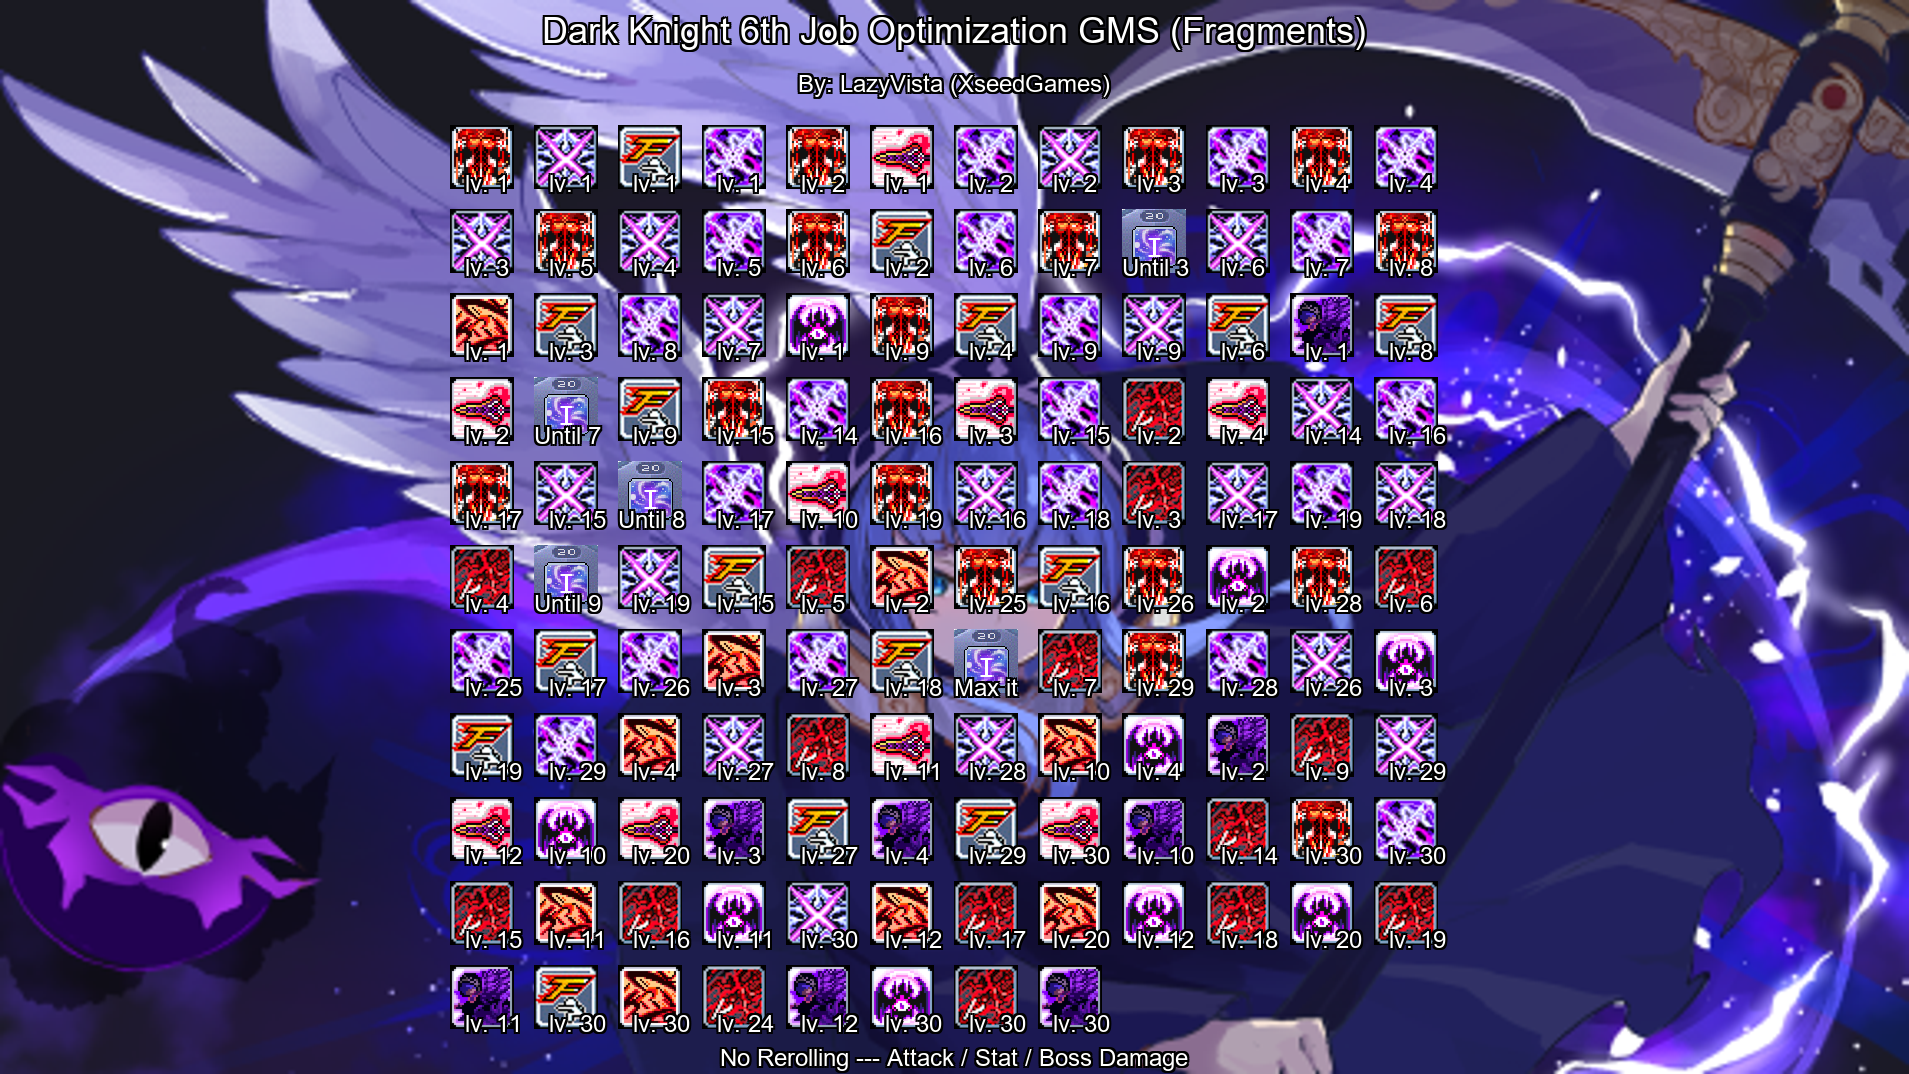
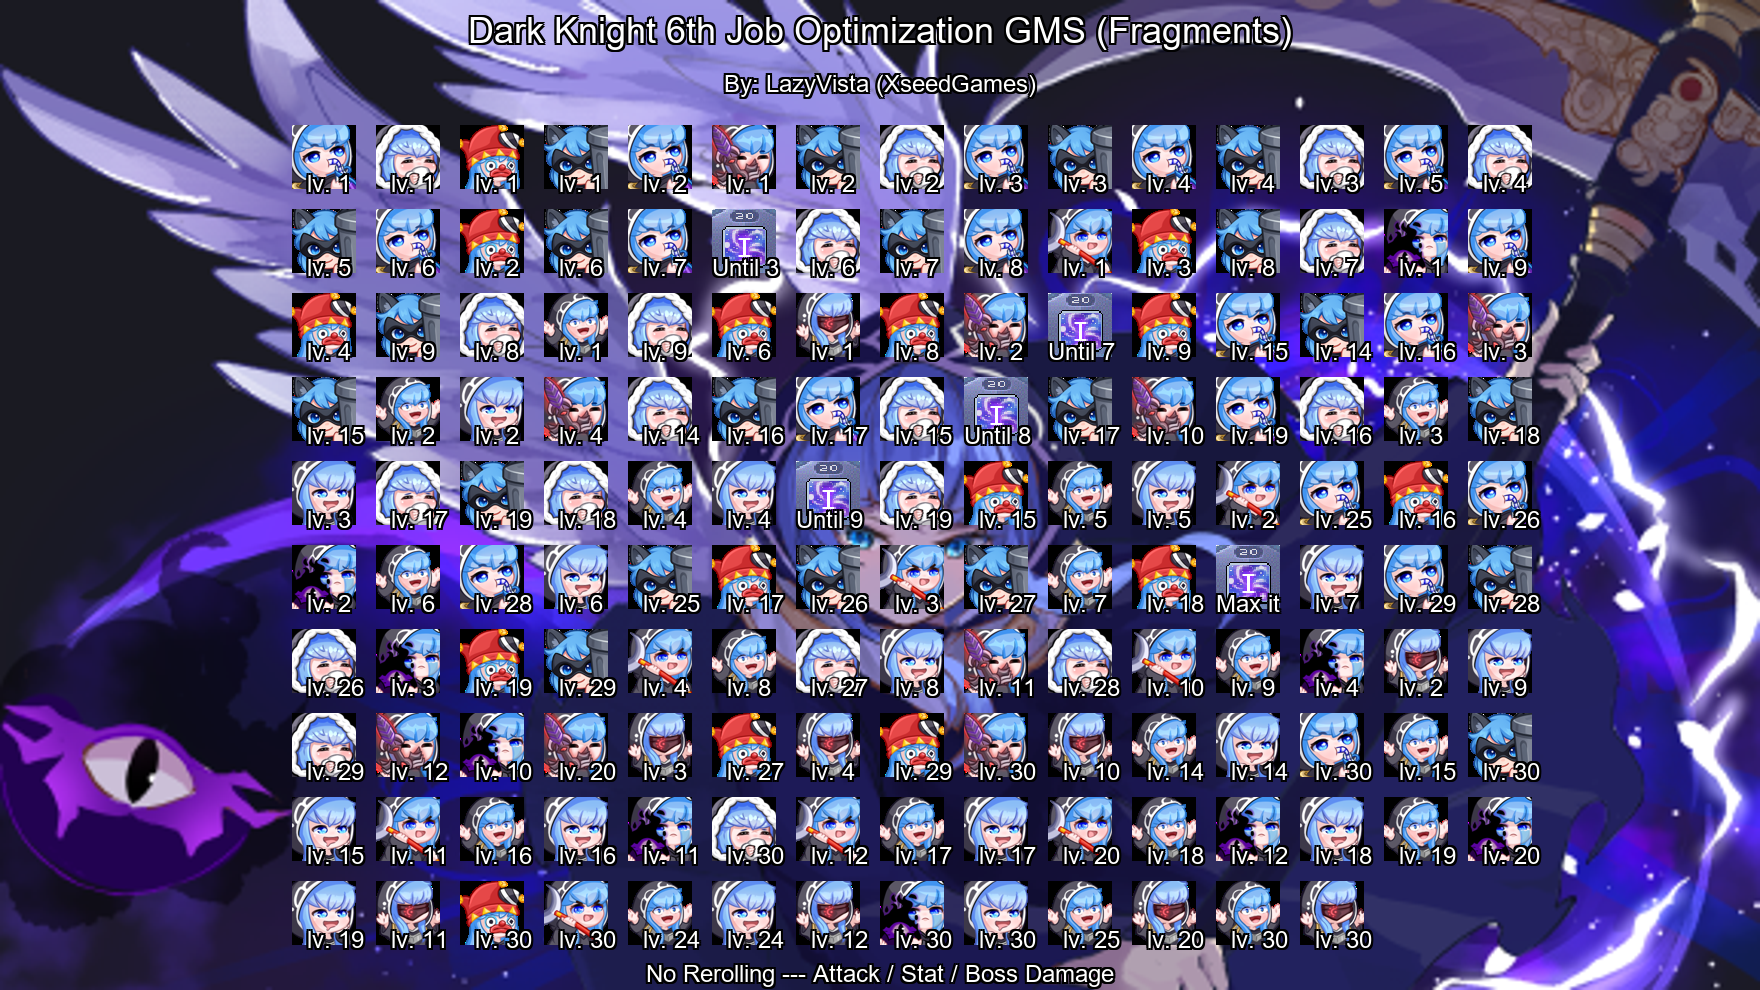
Ascent added

diff --git a/Auto_Infographic_Optimize/Hexa_Skill_Optimize.py b/Auto_Infographic_Optimize/Hexa_Skill_Optimize.py
@@ -61,6 +61,7 @@ Damage_Distribution['B_3'] = 8.23                               # Cyclone
 Damage_Distribution['B_4'] = 5.78                               # Darkness Aura
 
 Damage_Distribution['C_1'] = 4.85                               # Dead Space
+Damage_Distribution['C_2'] = 1                                  # Ascent, if skill lv0 write down BA as if lv1
 
 # Current Skill Levels (6th Core)
 Level_Distribution = {
@@ -73,6 +74,7 @@ Level_Distribution = {
     'B_3_Level': 0,
     'B_4_Level': 0,
     'C_1_Level': 1,
+    'C_2_Level': 0,
 }
 
 # These stats (Crit_Dmg, Att_Power, Att_Perc, Stat) are only used if Toggle_Stuff['Hexa_Stat_Include'] is True
@@ -138,7 +140,7 @@ def Fill_Boost(List,ID,Aux,Val,Start,End):
                 List[i] = round((0.21 + i*0.01) * Aux * Val,sig_fig)
             elif (i+1) == 30:
                 List[i]  = round(0.60            * Aux * Val,sig_fig)
-        elif ID == "C":
+        elif ID == "C_1":
             if i == 0:
                 List[i] = Damage_Distribution['C_1']
             elif (i+1) < 10:
@@ -153,6 +155,21 @@ def Fill_Boost(List,ID,Aux,Val,Start,End):
             elif (i+1) == 30:
                 CAux     = (1-Base_Numbers['Boss_Def']*(1-Base_Numbers['IED'])*(1-.2)*(1-0.3))/(1-Base_Numbers['Boss_Def']*(1-Base_Numbers['IED'])) * (1 + Base_Numbers['Damage'] + .2 + .3) / (1 + Base_Numbers['Damage'])
                 List[i] = Damage_Distribution['C_1'] + round((i) * Aux * CAux  * Val/30,sig_fig)
+        elif ID == "C_2":
+            if i == 0:
+                List[i] = Val
+            elif (i+1) < 10:
+                CAux     = 1
+                List[i]  = Val * round((12*12*(580+(i+1)*111)+16*15*(759+(i+1)*150))/(12*12*(580+(1)*111)+16*15*(759+(1)*150)) * Aux * CAux,sig_fig)
+            elif (i+1) < 20:
+                CAux     = (1-Base_Numbers['Boss_Def']*(1-Base_Numbers['IED'])*(1-.1))/(1-Base_Numbers['Boss_Def']*(1-Base_Numbers['IED'])) * (1 + Base_Numbers['Damage'] + .1) / (1 + Base_Numbers['Damage'])
+                List[i]  = Val * round((12*12*(580+(i+1)*111)+16*15*(759+(i+1)*150))/(12*12*(580+(1)*111)+16*15*(759+(1)*150)) * Aux * CAux,sig_fig)
+            elif (i+1) < 30:
+                CAux     = (1-Base_Numbers['Boss_Def']*(1-Base_Numbers['IED'])*(1-.2))/(1-Base_Numbers['Boss_Def']*(1-Base_Numbers['IED'])) * (1 + Base_Numbers['Damage'] + .2) / (1 + Base_Numbers['Damage'])
+                List[i]  = Val * round((12*12*(580+(i+1)*111)+16*15*(759+(i+1)*150))/(12*12*(580+(1)*111)+16*15*(759+(1)*150)) * Aux * CAux,sig_fig)
+            elif (i+1) == 30:
+                CAux     = (1-Base_Numbers['Boss_Def']*(1-Base_Numbers['IED'])*(1-.4))/(1-Base_Numbers['Boss_Def']*(1-Base_Numbers['IED'])) * (1 + Base_Numbers['Damage'] + .2) / (1 + Base_Numbers['Damage'])
+                List[i]  = Val * round((12*12*(580+(i+1)*111)+16*15*(759+(i+1)*150))/(12*12*(580+(1)*111)+16*15*(759+(1)*150)) * Aux * CAux,sig_fig)
     return List
     
 # for debugging purposes
@@ -318,8 +335,7 @@ def Run_Main():
         ,188
         ,375]
         
-        # 0.01 is simply just to avoid a divide by 0 error
-        C_cost = [0.01
+        C_cost = [100
         ,30
         ,35
         ,40
@@ -413,8 +429,7 @@ def Run_Main():
         ,6
         ,15]
         
-        # 0.01 is simply just to avoid a divide by 0 error
-        C_cost = [0.01
+        C_cost = [5
         ,1
         ,1
         ,1
@@ -464,6 +479,8 @@ def Run_Main():
     B_3_boost   = 30 * [0]
     B_4_boost   = 30 * [0]
     C_1_boost   = 30 * [0]
+    C_2_boost   = 30 * [0]
+
     BoostArray  = {
         'A_1'   :   0,
         'A_2'   :   0,
@@ -530,6 +547,7 @@ def Run_Main():
         B_3_Aux         = 1
         B_4_Aux         = 1
         C_1_Aux         = 1
+        C_2_Aux         = 1
         
         A_1_boost = Fill_Boost(A_1_boost,"A1",A_1_Aux ,Amod_1 ,0  ,len(A_cost))
         
@@ -554,7 +572,8 @@ def Run_Main():
         B_3_boost = Fill_Boost(B_3_boost,"B",B_3_Aux ,Bmod_3 ,0  ,len(B_cost))
         B_4_boost = Fill_Boost(B_4_boost,"B",B_4_Aux ,Bmod_4 ,0  ,len(B_cost))
         
-        C_1_boost = Fill_Boost(C_1_boost,"C",C_1_Aux ,Damage_Distribution['C_1']    ,0  ,len(C_cost))
+        C_1_boost = Fill_Boost(C_1_boost,"C_1",C_1_Aux ,Damage_Distribution['C_1']    ,0  ,len(C_cost))
+        C_2_boost = Fill_Boost(C_2_boost,"C_2",C_2_Aux ,Damage_Distribution['C_2']    ,0  ,len(C_cost))
         
         print('A_1 Base :' + str(round(Amod_1,5)))
         print('A_2a Base :' + str(round(Amod_2a,5)))
@@ -572,6 +591,7 @@ def Run_Main():
         print('B_3 Base :' + str(round(Bmod_3,5)))
         print('B_4 Base :' + str(round(Bmod_4,5)))
         print('C_1 Base :' + str(round(C_1,5)))
+        print('C_2 Base :' + str(round(C_1,5)))
     else:
     # where i left off ------------------------------------------
         A_1_Aux         = 1
@@ -583,6 +603,7 @@ def Run_Main():
         B_3_Aux         = 1
         B_4_Aux         = 1
         C_1_Aux         = 1
+        C_2_Aux         = 1
         
         A_1_Multi_boost = Fill_Boost(A_1_boost,"A1",A_1_Aux ,1 ,0  ,len(A_cost))
         
@@ -604,8 +625,9 @@ def Run_Main():
         B_3_Multi_boost = Fill_Boost(B_3_boost,"B",B_3_Aux ,1 ,0  ,len(B_cost))
         B_4_Multi_boost = Fill_Boost(B_4_boost,"B",B_4_Aux ,1 ,0  ,len(B_cost))
         
-        C_1_Multi_boost = Fill_Boost(C_1_boost,"C",C_1_Aux ,1 ,0  ,len(C_cost))
+        C_1_Multi_boost = Fill_Boost(C_1_boost,"C_1",C_1_Aux ,1 ,0  ,len(C_cost))
         C_1_Multi_boost = [x - C_1_Multi_boost[0] for x in C_1_Multi_boost]
+        C_2_Multi_boost = Fill_Boost(C_2_boost,"C_2",C_2_Aux ,1 ,0  ,len(C_cost))
         
         Revert_Amod_1,Delta_A_1    = Reverter_Multi(Damage_Distribution['A_1'] ,Level_Distribution['A_1_Level'],A_1_Multi_boost,Level_Distribution['A_2_Level'],A_2a_Multi_boost)
         
@@ -627,8 +649,9 @@ def Run_Main():
         Revert_Bmod_3,Delta_B_3  = Reverter(Damage_Distribution['B_3'],Level_Distribution['B_3_Level'],B_3_Multi_boost)
         Revert_Bmod_4,Delta_B_4  = Reverter(Damage_Distribution['B_4'],Level_Distribution['B_4_Level'],B_4_Multi_boost)
         Revert_C_1   ,Delta_C_1  = Reverter(Damage_Distribution['C_1'],Level_Distribution['C_1_Level'],C_1_Multi_boost)
+        Revert_C_2   ,Delta_C_2  = Reverter(Damage_Distribution['C_2'],Level_Distribution['C_2_Level'],C_2_Multi_boost)
             
-        Delta_T = Delta_A_1 + Delta_A_2b + Delta_A_2c + Delta_A_3a + Delta_A_3b + Delta_A_3c + Delta_A_4a + Delta_B_1 + Delta_B_2 + Delta_B_3 + Delta_B_4 + Delta_C_1
+        Delta_T = Delta_A_1 + Delta_A_2b + Delta_A_2c + Delta_A_3a + Delta_A_3b + Delta_A_3c + Delta_A_4a + Delta_B_1 + Delta_B_2 + Delta_B_3 + Delta_B_4 + Delta_C_1 + Delta_C_2
         
         #for i in range(len(A_1_Multi_boost)):
         #    print(str(i) + ":" + str(A_4a_Multi_boost[i]))
@@ -661,6 +684,7 @@ def Run_Main():
         Bmod_3  = Revert_Bmod_3 * ( 1 + Delta_T )
         Bmod_4  = Revert_Bmod_4 * ( 1 + Delta_T )
         C_1     = Revert_C_1 * ( 1 + Delta_T )
+        Cmod_2     = Revert_C_2 * ( 1 + Delta_T )
         
         A_1_boost = Fill_Boost(A_1_boost,"A1",A_1_Aux ,Amod_1 ,0  ,len(A_cost))
         
@@ -684,7 +708,8 @@ def Run_Main():
         B_2_boost = Fill_Boost(B_2_boost,"B",B_2_Aux ,Bmod_2 ,0  ,len(B_cost))
         B_3_boost = Fill_Boost(B_3_boost,"B",B_3_Aux ,Bmod_3 ,0  ,len(B_cost))
         B_4_boost = Fill_Boost(B_4_boost,"B",B_4_Aux ,Bmod_4 ,0  ,len(B_cost))
-        C_1_boost = Fill_Boost(C_1_boost,"C",C_1_Aux ,Damage_Distribution['C_1']    ,0  ,len(C_cost))
+        C_1_boost = Fill_Boost(C_1_boost,"C_1",C_1_Aux ,Damage_Distribution['C_1']    ,0  ,len(C_cost))
+        C_2_boost = Fill_Boost(C_2_boost,"C_2",C_2_Aux ,Cmod_2    ,0  ,len(C_cost))
 
         #print('A_1 Base :' + str(round(Amod_1,5)))
         #print('A_2a Base :' + str(round(Amod_2a,5)))
@@ -727,6 +752,8 @@ def Run_Main():
         BoostArray['C_1'] = C_1_boost[Level_Distribution['C_1_Level']-1]
     else:
         BoostArray['C_1'] = C_1
+    if Level_Distribution['C_2_Level'] != 0:
+        BoostArray['C_2'] = C_2_boost[Level_Distribution['C_2_Level']-1]
         
     if Level_Distribution['A_1_Level'] != 0:
         CostArray['A_1'] = sum_entries_up_to_number(A_cost,Level_Distribution['A_1_Level'] - 1)
@@ -748,6 +775,8 @@ def Run_Main():
         CostArray['C_1'] = sum_entries_up_to_number(C_cost,Level_Distribution['C_1_Level'] - 1)
     else:
         CostArray['C_1'] = 0
+    if Level_Distribution['C_2_Level'] != 0:
+        CostArray['C_2'] = sum_entries_up_to_number(C_cost,Level_Distribution['C_2_Level'] - 1)
 
     if C_1_Changed == False:
         print('Total FD gain at the start : ' + str(round(sum(BoostArray.values()),5)))
@@ -774,6 +803,7 @@ def Run_Main():
         B_3_Delta_boost = ListSubtractConstant(B_3_boost,Level_Distribution['B_3_Level'])
         B_4_Delta_boost = ListSubtractConstant(B_4_boost,Level_Distribution['B_4_Level'])
         C_1_Delta_boost = ListSubtractConstant(C_1_boost,Level_Distribution['C_1_Level'])
+        C_2_Delta_boost = ListSubtractConstant(C_2_boost,Level_Distribution['C_2_Level'])
     #    print("Delta_Boost")
     #    ListPrint(B_3_Delta_boost)
 
@@ -786,6 +816,7 @@ def Run_Main():
         B_3_Tcost = Fill_Costs(B_cost,Level_Distribution['B_3_Level'])
         B_4_Tcost = Fill_Costs(B_cost,Level_Distribution['B_4_Level'])
         C_1_Tcost = Fill_Costs(C_cost,Level_Distribution['C_1_Level'])
+        C_2_Tcost = Fill_Costs(C_cost,Level_Distribution['C_2_Level'])
     #    print("TCost")
     #    ListPrint(C_1_Tcost)
 
@@ -799,6 +830,7 @@ def Run_Main():
         B_3_BoostOverCost = ListByListDivide(B_3_Delta_boost, B_3_Tcost)
         B_4_BoostOverCost = ListByListDivide(B_4_Delta_boost, B_4_Tcost)
         C_1_BoostOverCost = ListByListDivide(C_1_Delta_boost, C_1_Tcost)
+        C_2_BoostOverCost = ListByListDivide(C_2_Delta_boost, C_2_Tcost)
 
     #    print("DeltaBoost/Cost")
     #    ListPrint(C_1_BoostOverCost)
@@ -812,6 +844,7 @@ def Run_Main():
         B_3_BoostOverCost = [[i + 1, val, "B_3"] for i, val in enumerate(B_3_BoostOverCost)]
         B_4_BoostOverCost = [[i + 1, val, "B_4"] for i, val in enumerate(B_4_BoostOverCost)]
         C_1_BoostOverCost = [[i + 1, val, "C_1"] for i, val in enumerate(C_1_BoostOverCost)]
+        C_2_BoostOverCost = [[i + 1, val, "C_2"] for i, val in enumerate(C_2_BoostOverCost)]
 
         if Toggle_Stuff['ForceMasteryA1234'] == True:
             if PassCount == 0:
@@ -861,6 +894,7 @@ def Run_Main():
         B_3_BoostOverCost = sorted(B_3_BoostOverCost, key=lambda x: x[1], reverse = True)
         B_4_BoostOverCost = sorted(B_4_BoostOverCost, key=lambda x: x[1], reverse = True)
         C_1_BoostOverCost = sorted(C_1_BoostOverCost, key=lambda x: x[1], reverse = True)
+        C_2_BoostOverCost = sorted(C_2_BoostOverCost, key=lambda x: x[1], reverse = True)
 
         A_1_BoostOverCost_Filtered = SequentialFilter(A_1_BoostOverCost)
         A_2_BoostOverCost_Filtered = SequentialFilter(A_2_BoostOverCost)
@@ -871,9 +905,10 @@ def Run_Main():
         B_3_BoostOverCost_Filtered = SequentialFilter(B_3_BoostOverCost)
         B_4_BoostOverCost_Filtered = SequentialFilter(B_4_BoostOverCost)
         C_1_BoostOverCost_Filtered = SequentialFilter(C_1_BoostOverCost)
+        C_2_BoostOverCost_Filtered = SequentialFilter(C_2_BoostOverCost)
 
         # fuse all the lists
-        MegaList = A_1_BoostOverCost_Filtered + A_2_BoostOverCost_Filtered + A_3_BoostOverCost_Filtered + A_4_BoostOverCost_Filtered + B_1_BoostOverCost_Filtered + B_2_BoostOverCost_Filtered + B_3_BoostOverCost_Filtered + B_4_BoostOverCost_Filtered +  C_1_BoostOverCost_Filtered
+        MegaList = A_1_BoostOverCost_Filtered + A_2_BoostOverCost_Filtered + A_3_BoostOverCost_Filtered + A_4_BoostOverCost_Filtered + B_1_BoostOverCost_Filtered + B_2_BoostOverCost_Filtered + B_3_BoostOverCost_Filtered + B_4_BoostOverCost_Filtered +  C_1_BoostOverCost_Filtered +  C_2_BoostOverCost_Filtered
         # sort by efficiency
         MegaList = sorted(MegaList, key=lambda x: x[1], reverse = True)
         #ListPrint(MegaList)
@@ -916,6 +951,10 @@ def Run_Main():
             Level_Distribution['C_1_Level'] = MegaList[0][0]
             BoostArray['C_1'] = C_1_boost[Level_Distribution['C_1_Level'] - 1]
             CostArray['C_1'] = sum_entries_up_to_number(C_cost,Level_Distribution['C_1_Level'] - 1)
+        elif MegaList[0][2] == "C_2":
+            Level_Distribution['C_2_Level'] = MegaList[0][0]
+            BoostArray['C_2'] = C_2_boost[Level_Distribution['C_2_Level'] - 1]
+            CostArray['C_2'] = sum_entries_up_to_number(C_cost,Level_Distribution['C_2_Level'] - 1)
             
         BoostArraySum = round(sum(BoostArray.values()),5)
         CostArraySum = round(sum(CostArray.values()))
@@ -1184,7 +1223,7 @@ def Run_Main():
     ListPrint(Compressed_Final_List)
     # printing stuff
 
-    grid_width, grid_height = 12, 4  # You can adjust these dimensions as needed
+    grid_width, grid_height = 15, 4  # You can adjust these dimensions as needed
     spacing = 20
 
     # Calculate the size of each image and the spacing
@@ -1214,6 +1253,7 @@ def Run_Main():
     image_B_3 = Image.open(os.path.join(current_directory, "B_3.png"))
     image_B_4 = Image.open(os.path.join(current_directory, "B_4.png"))
     image_C_1 = Image.open(os.path.join(current_directory, "C_1.png"))
+    image_C_2 = Image.open(os.path.join(current_directory, "C_2.png"))
     image_Stat = Image.open(os.path.join(current_directory, "Stat.png"))
 
     background_image = Image.open("Background.png")
@@ -1328,6 +1368,8 @@ def Run_Main():
                 canvas.paste(image_B_4.resize((image_size, image_size)), (x, y))
             elif Compressed_Final_List[entry][2] == "C_1":
                 canvas.paste(image_C_1.resize((image_size, image_size)), (x, y))
+            elif Compressed_Final_List[entry][2] == "C_2":
+                canvas.paste(image_C_2.resize((image_size, image_size)), (x, y))
             elif Compressed_Final_List[entry][2] == "Stat Core":
                 canvas.paste(image_Stat.resize((image_size, image_size)), (x, y))
                 
